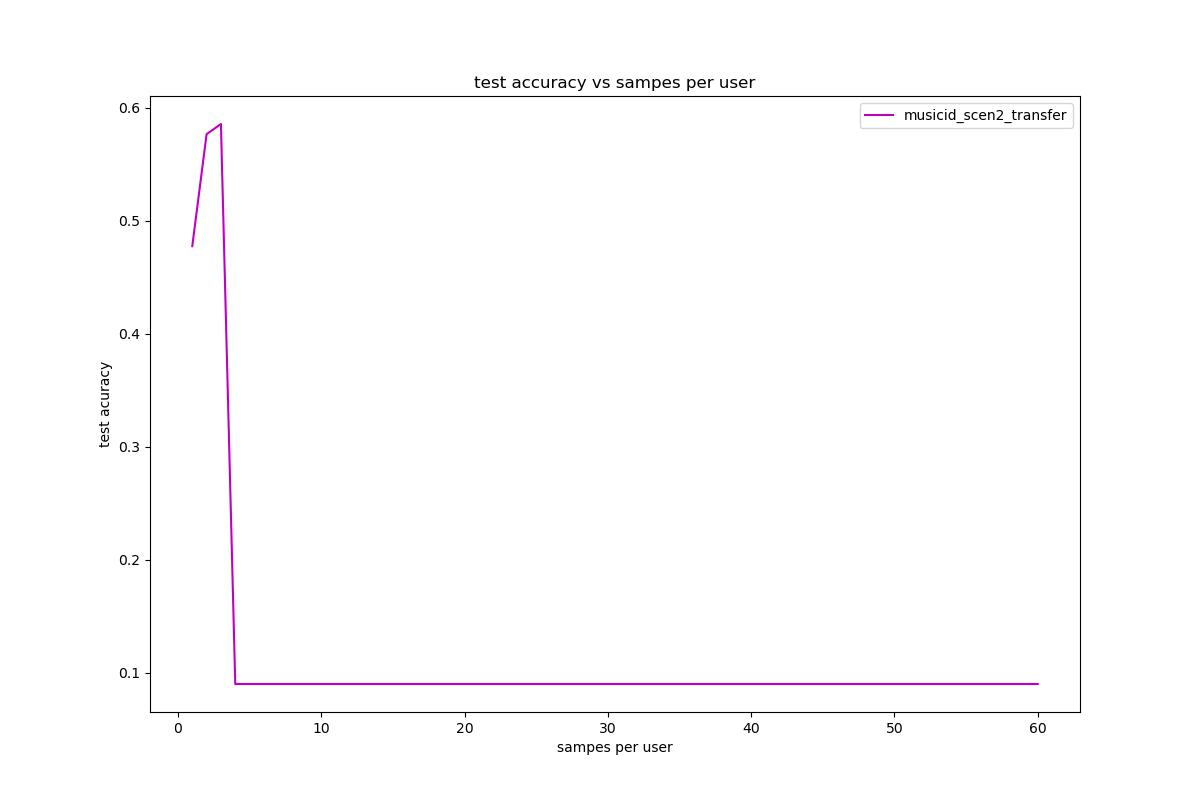
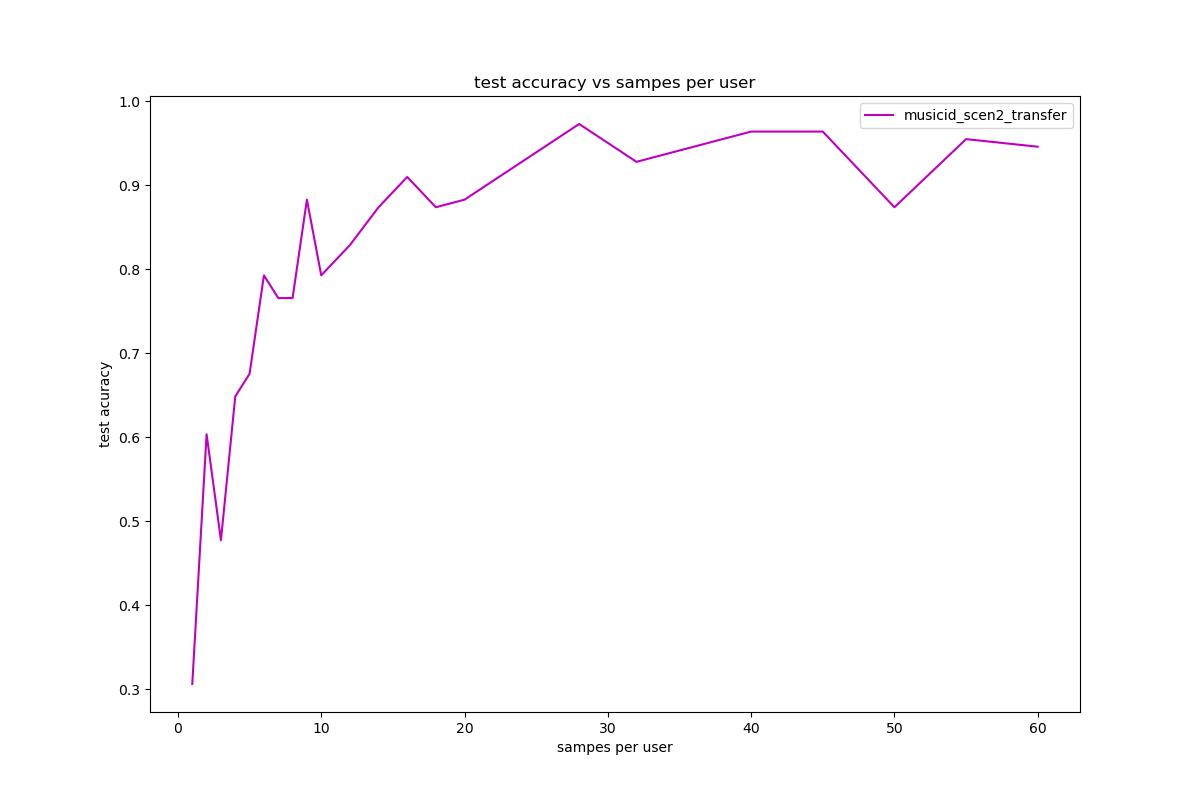
scen 2 error fixed

diff --git a/experiments/MusicID/scen.2/transfer/plot_results.py b/experiments/MusicID/scen.2/transfer/plot_results.py
@@ -6,27 +6,27 @@ import matplotlib.pyplot as plt
 variable_name="sampes per user"
 model_name="musicid_scen2_transfer"
 variable=[1,2,3,4,5,6,7,8,9,10,12,14,16,18,20,24,28,32,36,40,45,50,55,60]
+
 acc=[]
 kappa=[]
+el95 = 0
 for el in variable:
-  acc_temp=[]
-  kappa_temp=[]
-  for itr in range(1):
-    test_acc, kappa_score, fet_extrct = pre_trainer(el)
-    acc_temp.append(test_acc)
-    kappa_temp.append(kappa_score)
-  if np.mean(np.array(acc_temp))>=0.95:
-    el95 = el
+  for itr in range(10):
+    test_acc, kappa_score, model = pre_trainer(el)
+    if test_acc>=0.95:
+      el95 = el
+      break
+  if el95!=0:
     break
 
-fet_extrct.summary()
+model.summary()
 acc=[]
 kappa=[]
 for el in variable:
   acc_temp=[]
   kappa_temp=[]
   for itr in range(10):
-    test_acc, kappa_score = trainer(samples_per_user=el, fet_extrct=fet_extrct, ft=5)
+    test_acc, kappa_score = trainer(samples_per_user=el, fet_extrct=model, ft=5)
     acc_temp.append(test_acc)
     kappa_temp.append(kappa_score)
   acc.append(acc_temp)
